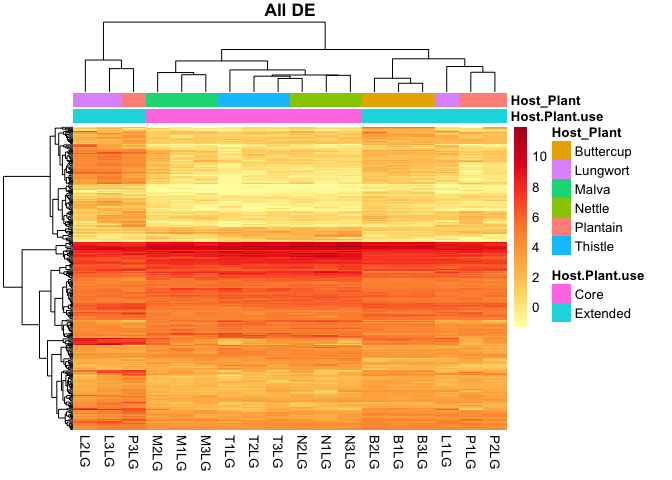
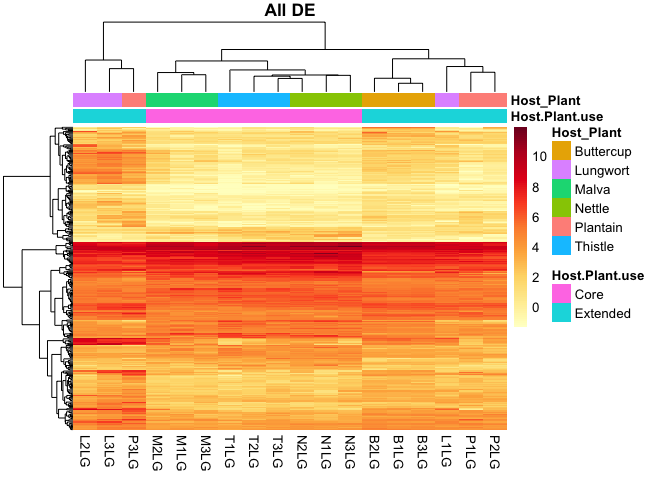
Improving the color scales in heat maps

diff --git a/cluster_ortho.md b/cluster_ortho.md
@@ -416,13 +416,13 @@ write.table(sig.o,file="sig_gut_corevsextended_DESeq2_0.01.txt",quote=F)
 info <- meta.gut[,c("Host.Plant.use","Host_Plant")]
 rownames(info) <- columns
 #pdf("Gut_heatmap_allDE.pdf")
-pheatmap(log.cpm.tmm[rownames(sig.o),columns], color=colorRampPalette(brewer.pal(n=7, name="YlOrRd"))(100), show_rownames = F, annotation_col=info, main="All DE")
+pheatmap(log.cpm.tmm[rownames(sig.o),columns], color=colorRampPalette(brewer.pal(n=9, name="YlOrRd"))(100), show_rownames = F, annotation_col=info, main="All DE")
 ```
 
 ![](cluster_ortho_files/figure-markdown_github/:deseq-1.png)
 
 ``` r
-pheatmap(log.cpm.tmm[rownames(sig.o)[1:100],columns], show_rownames = F, annotation_col=info, main="Top 50", color=colorRampPalette(brewer.pal(n=7, name="YlOrRd"))(100))
+pheatmap(log.cpm.tmm[rownames(sig.o)[1:100],columns], show_rownames = F, annotation_col=info, main="Top 50", color=colorRampPalette(brewer.pal(n=9, name="YlOrRd"))(100))
 ```
 
 ![](cluster_ortho_files/figure-markdown_github/:deseq-2.png)
@@ -488,13 +488,13 @@ write.table(sig.o,file="sig_labialgland_corevsextended_DESeq2_0.01.txt",quote=F)
 info <- meta.lab[,c("Host.Plant.use","Host_Plant")]
 rownames(info) <- meta.lab$Customer_ID
 #pdf("LabialGland_heatmap_allDE.pdf")
-pheatmap(log.cpm.tmm[rownames(sig.o),columns], color=colorRampPalette(brewer.pal(n=7, name="YlOrRd"))(100), show_rownames = F, annotation_col=info, main="All DE")
+pheatmap(log.cpm.tmm[rownames(sig.o),columns], color=colorRampPalette(brewer.pal(n=9, name="YlOrRd"))(100), show_rownames = F, annotation_col=info, main="All DE")
 ```
 
 ![](cluster_ortho_files/figure-markdown_github/:labi-1.png)
 
 ``` r
-pheatmap(log.cpm.tmm[rownames(sig.o)[1:100],columns], show_rownames = F, annotation_col=info, main="Top 50", color=colorRampPalette(brewer.pal(n=7, name="YlOrRd"))(100))
+pheatmap(log.cpm.tmm[rownames(sig.o)[1:100],columns], show_rownames = F, annotation_col=info, main="Top 50", color=colorRampPalette(brewer.pal(n=9, name="YlOrRd"))(100))
 ```
 
 ![](cluster_ortho_files/figure-markdown_github/:labi-2.png)
@@ -559,13 +559,13 @@ write.table(sig.o,file="sig_fatbody_corevsextended_DESeq2_0.01.txt",quote=F)
 info <- meta.lab[,c("Host.Plant.use","Host_Plant")]
 rownames(info) <- meta.fat$Customer_ID
 #pdf("FatBody_heatmap_allDE.pdf")
-pheatmap(log.cpm.tmm[rownames(sig.o),columns], color=colorRampPalette(brewer.pal(n=7, name="YlOrRd"))(100), show_rownames = F, annotation_col=info, main="All DE")
+pheatmap(log.cpm.tmm[rownames(sig.o),columns], color=colorRampPalette(brewer.pal(n=9, name="YlOrRd"))(100), show_rownames = F, annotation_col=info, main="All DE")
 ```
 
 ![](cluster_ortho_files/figure-markdown_github/:fat-1.png)
 
 ``` r
-pheatmap(log.cpm.tmm[rownames(sig.o)[1:50],columns], color=colorRampPalette(brewer.pal(n=7, name="YlOrRd"))(100), show_rownames = F, annotation_col=info, main="Top 50")
+pheatmap(log.cpm.tmm[rownames(sig.o)[1:50],columns], color=colorRampPalette(brewer.pal(n=9, name="YlOrRd"))(100), show_rownames = F, annotation_col=info, main="Top 50")
 ```
 
 ![](cluster_ortho_files/figure-markdown_github/:fat-2.png)
@@ -630,13 +630,13 @@ write.table(sig.o,file="sig_malpi_corevsextended_DESeq2_0.01.txt",quote=F)
 info <- meta.mal[,c("Host.Plant.use","Host_Plant")]
 rownames(info) <- meta.mal$Customer_ID
 #pdf("MalpighianTubules_heatmap_allDE.pdf")
-pheatmap(log.cpm.tmm[rownames(sig.o),columns], color=colorRampPalette(brewer.pal(n=7, name="YlOrRd"))(100), show_rownames = F, annotation_col=info, main="All DE")
+pheatmap(log.cpm.tmm[rownames(sig.o),columns], color=colorRampPalette(brewer.pal(n=9, name="YlOrRd"))(100), show_rownames = F, annotation_col=info, main="All DE")
 ```
 
 ![](cluster_ortho_files/figure-markdown_github/:malpi-1.png)
 
 ``` r
-pheatmap(log.cpm.tmm[rownames(sig.o)[1:50],columns], color=colorRampPalette(brewer.pal(n=7, name="YlOrRd"))(100), show_rownames = F, annotation_col=info, main="Top 50")
+pheatmap(log.cpm.tmm[rownames(sig.o)[1:50],columns], color=colorRampPalette(brewer.pal(n=9, name="YlOrRd"))(100), show_rownames = F, annotation_col=info, main="Top 50")
 ```
 
 ![](cluster_ortho_files/figure-markdown_github/:malpi-2.png)
